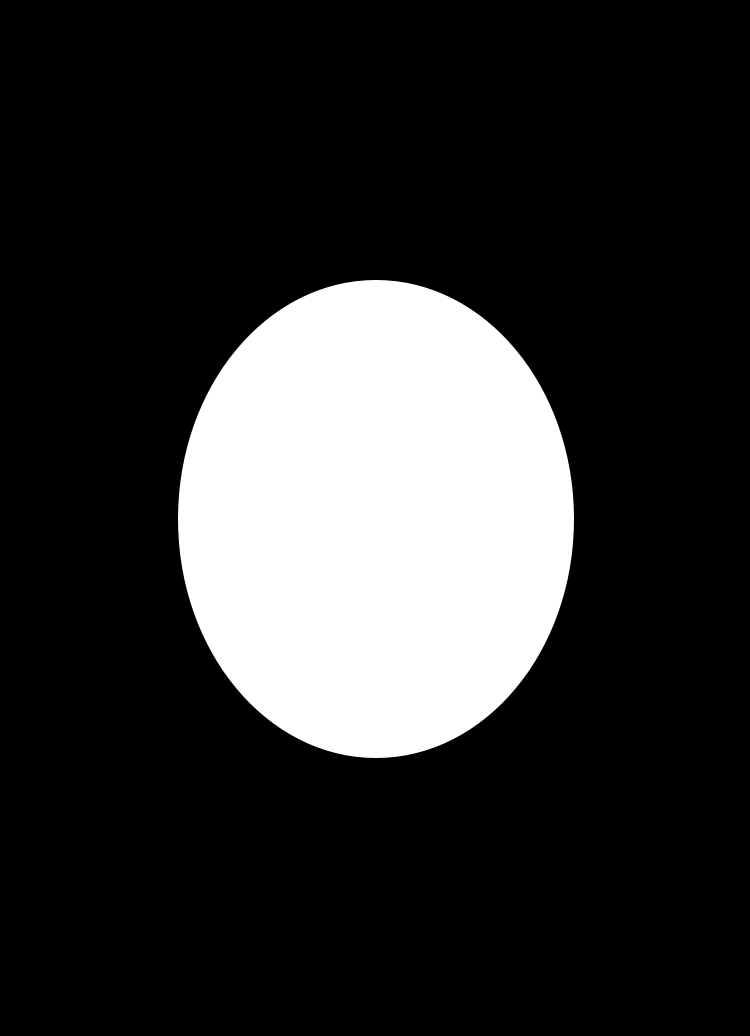
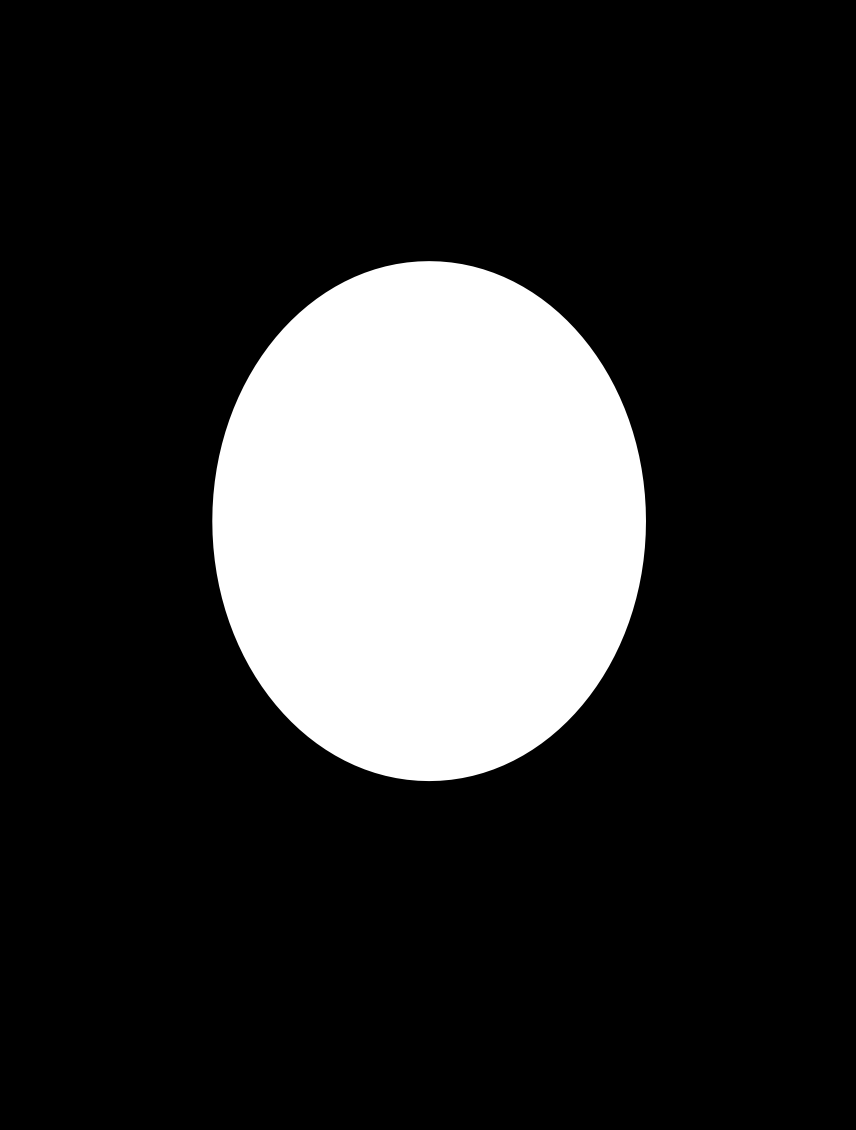
Fix masking shift

Changed region(s): [[0.2147, 0.2162, 0.7667, 0.7413]]

diff --git a/src/routes/face/index.js b/src/routes/face/index.js
@@ -89,6 +89,7 @@ export default class Face extends Component {
     const {currentTranslate, currentZoomFactor } = this.pinchToZoom.current.getTransform()
     const sourceX = currentTranslate.x * currentZoomFactor;
     const sourceY = currentTranslate.y * currentZoomFactor;
+    const maskVerticalRatio = 0.03794
 
     const canvas = document.createElement('canvas');
     const context = canvas.getContext('2d');
@@ -107,19 +108,18 @@ export default class Face extends Component {
         const zoom = this.image.current.width / image.width;
         const sourceWidth = image.width * zoom * currentZoomFactor;
         const sourceHeight = image.height * zoom * currentZoomFactor;
-        console.log(`mask height: ${maskImage.height}`);
-        console.log(`canvas height: ${canvas.height}`);
         const maskTranslateX = -0.5 * ((maskImage.width / 2) - canvas.width);
         const maskTranslateY = -0.5 * ((maskImage.height / 2) - canvas.height);
+        const offset = maskVerticalRatio * maskImage.height * 2;
         context.drawImage(maskImage, maskTranslateX, maskTranslateY, maskImage.width / 2, maskImage.height / 2);
         context.globalCompositeOperation = 'source-out';
-        context.drawImage(image, sourceX, sourceY, sourceWidth, sourceHeight);
+        context.drawImage(image, sourceX, sourceY - offset, sourceWidth, sourceHeight);
         context.save();
 
-        const newWidth = 198;
-        const newHeight = 239;
+        const newWidth = 217;
+        const newHeight = 260;
         const translateX = -1 * (canvas.width / 2 - newWidth / 2);
-        const translateY = -1 * (canvas.height / 2 - newHeight / 2);
+        const translateY = -1 * (canvas.height / 2 - newHeight / 2) + (maskVerticalRatio * maskImage.height / 2);
         const croppedBase64Image = ImageHelper.cropImage(canvas, translateX, translateY, newWidth, newHeight);
         
         this.uploadImage(croppedBase64Image);

diff --git a/src/routes/home/index.js b/src/routes/home/index.js
@@ -75,6 +75,14 @@ export default class Home extends React.Component {
     document.getElementById('custom-file-input').click();
   }
 
+  share() {
+    if (navigator.share) {
+
+    } else {
+
+    }
+  }
+
   handleFileChange(e) {
     this.setState({ file: e.target.files[0]},() => {
       this.openFaceModal();
@@ -90,7 +98,7 @@ export default class Home extends React.Component {
             <button className="refresh" onClick={this.reset.bind(this)} />
             <button className="camera" onClick={this.camera.bind(this)}/>
             <input type="file" id="custom-file-input" accept="image/*;capture=camera" onChange={(e) => this.handleFileChange(e)}/>
-            <button className="share"/>
+            {/* <button className="share" onClick={this.share.bind(this)}/> */}
           </div>
           <div className="right-buttons">
             <button onClick={this.openInfoModal} className="info" />

diff --git a/src/routes/face/index.css b/src/routes/face/index.css
@@ -49,8 +49,8 @@ body.face {
 
 .face-overlay-img {
   position: absolute;
-  height: 239px;
-  width: 198px;
+  height: 565px;
+  width: 428px;
   top: 50%;
   transform: translate(-50%, -50%);
 }
